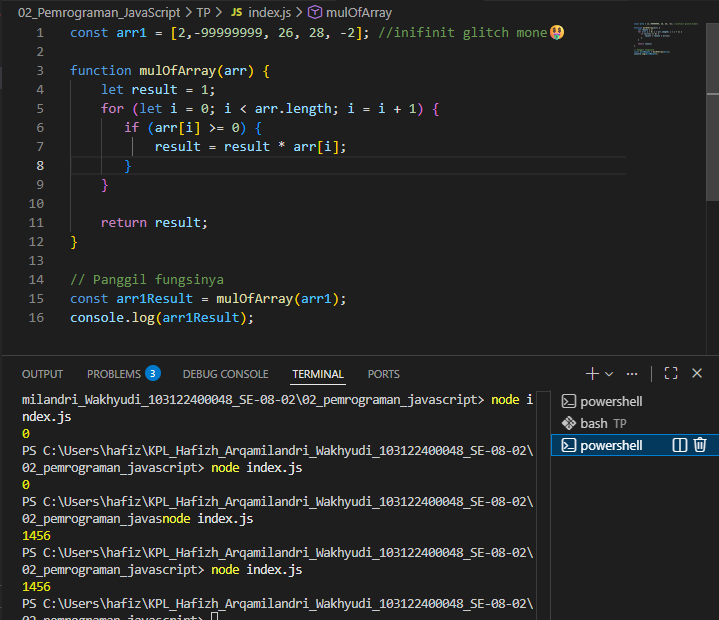
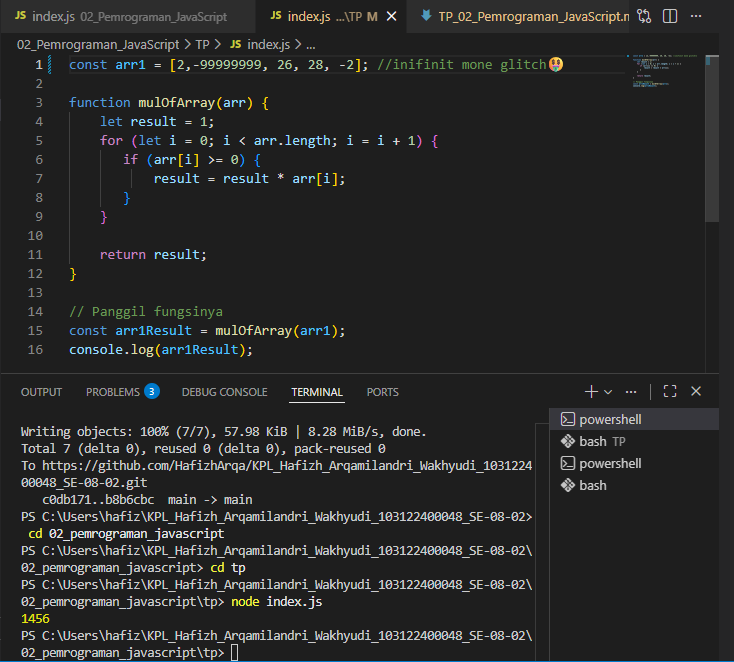
Menambahkan TP 02 Pemrograman JavaScript

diff --git a/02_Pemrograman_JavaScript/TP/index.js b/02_Pemrograman_JavaScript/TP/index.js
@@ -1,4 +1,4 @@
-const arr1 = [2,-99999999, 26, 28, -2]; //inifinit glitch mone🤑
+const arr1 = [2,-99999999, 26, 28, -2]; //inifinit mone glitch🤑
 
 function mulOfArray(arr) {
     let result = 1;
